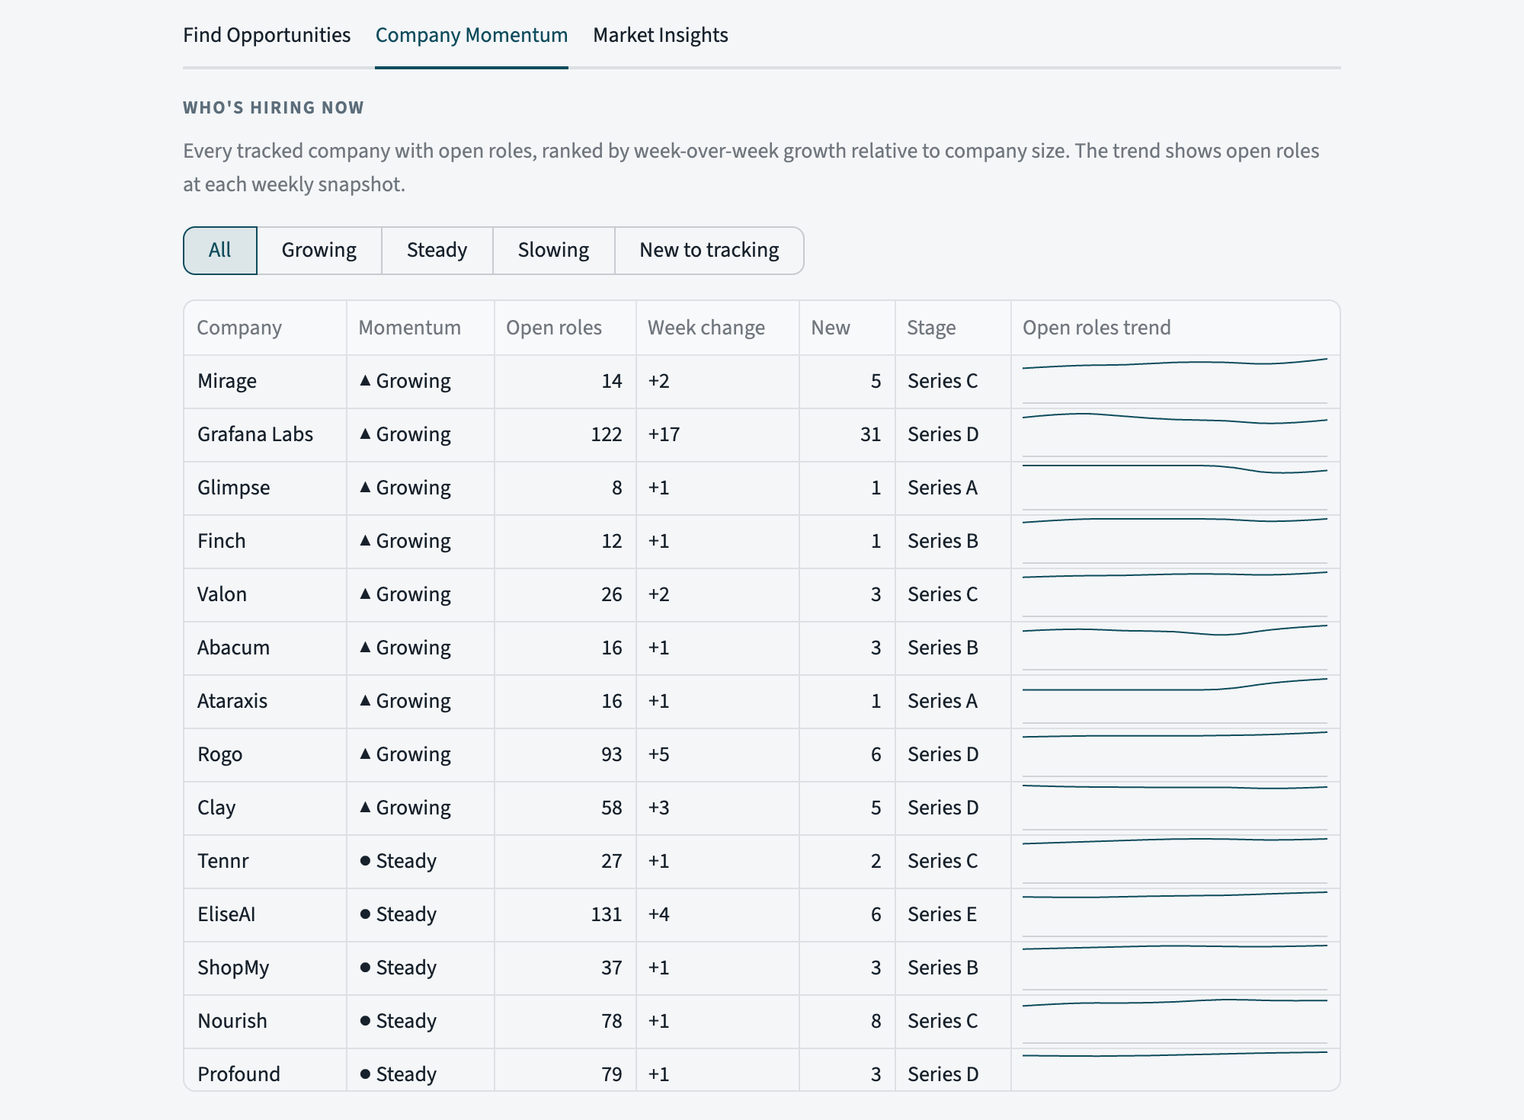
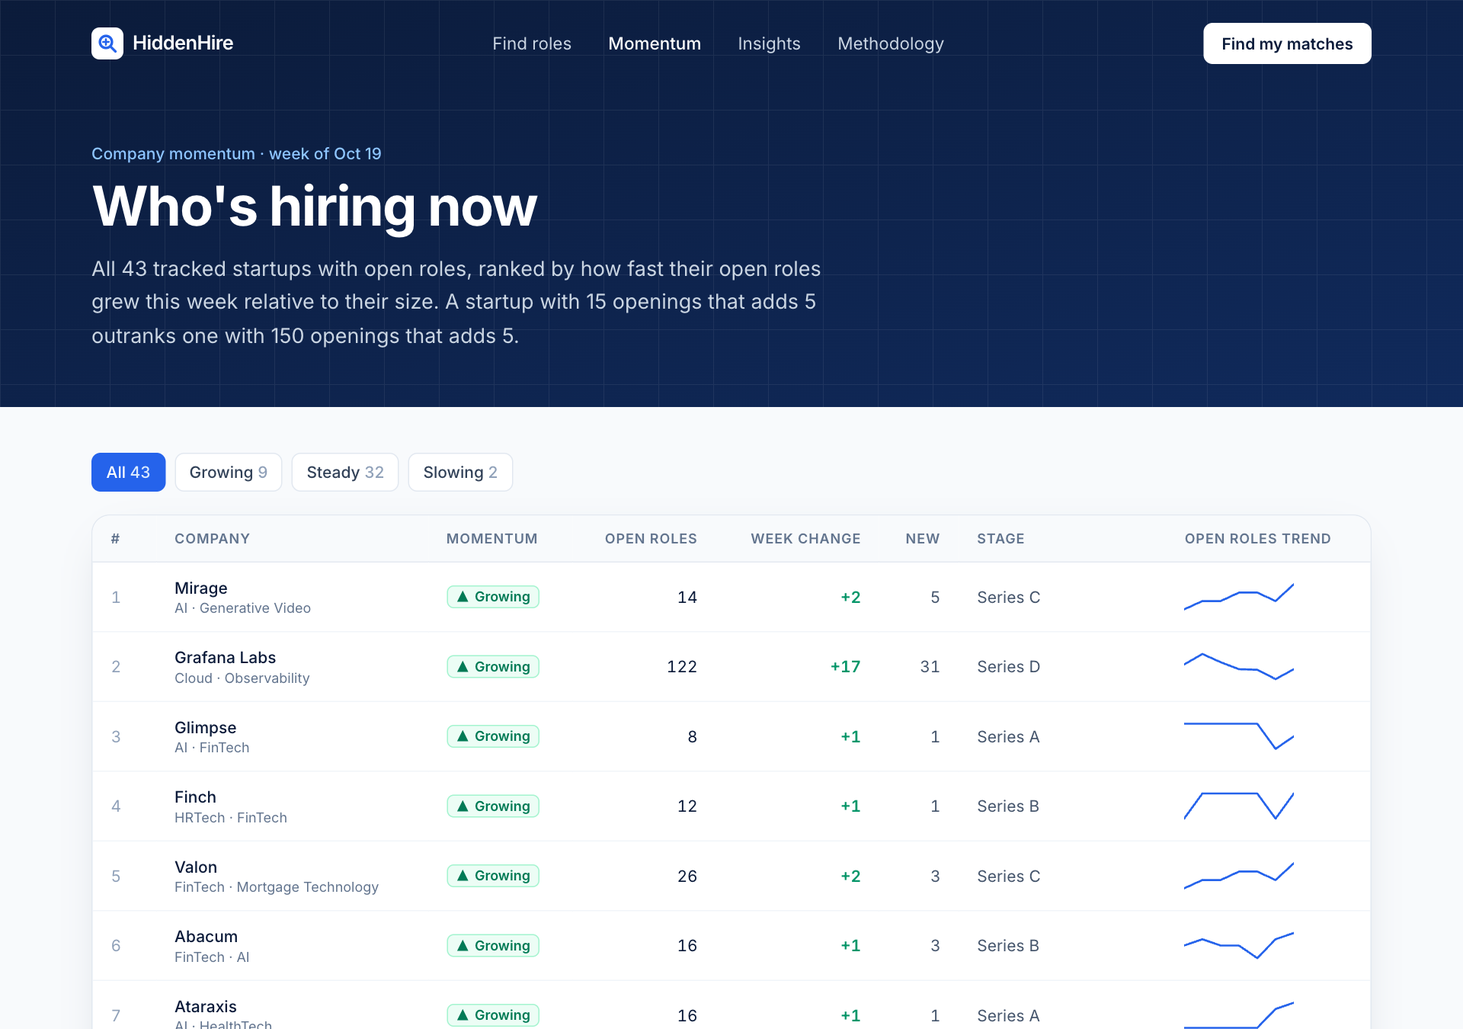
Switch over to hiddenhire-nyc.vercel.app
- README: live link, new screenshots, features, pipeline, tech stack, and
  website tests; Streamlit listed as the backup.
- Streamlit: a banner pointing to the new site (opens in the whole window).
- Every page gets its own link-preview title and description, keeping the
  shared preview image.
- CLAUDE.md: the Vercel site is now the live site.

diff --git a/web/lib/site.ts b/web/lib/site.ts
@@ -1,8 +1,36 @@
+import type { Metadata } from "next";
+
 // The site's public address, used for link previews, the sitemap, and
-// robots.txt. Vercel sets VERCEL_PROJECT_PRODUCTION_URL automatically (it
-// becomes the custom domain once one is added). SITE_URL overrides it.
+// robots.txt. Set a SITE_URL environment variable to change it (for
+// example after adding a custom domain); on your Mac it's localhost.
+export const PRODUCTION_URL = "https://hiddenhire-nyc.vercel.app";
+
 export const SITE_URL = process.env.SITE_URL
   ? process.env.SITE_URL.replace(/\/$/, "")
-  : process.env.VERCEL_PROJECT_PRODUCTION_URL
-    ? `https://${process.env.VERCEL_PROJECT_PRODUCTION_URL}`
+  : process.env.VERCEL
+    ? PRODUCTION_URL
     : "http://localhost:3000";
+
+export const SITE_NAME = "HiddenHire";
+
+// The shared preview picture (app/opengraph-image.tsx).
+const PREVIEW_IMAGE = {
+  url: "/opengraph-image",
+  width: 1200,
+  height: 630,
+  alt: "HiddenHire: find the New York startups hiring for you, before everyone else",
+};
+
+// Title, description, and matching link-preview text for one page.
+// Next.js merges metadata shallowly, so a page that sets `openGraph`
+// replaces the layout's entirely, including the image; this keeps the
+// shared fields (and the picture) on every page.
+export function pageMetadata(title: string, description: string): Metadata {
+  const full = `${title} · ${SITE_NAME}`;
+  return {
+    title,
+    description,
+    openGraph: { title: full, description, type: "website", siteName: SITE_NAME, images: [PREVIEW_IMAGE] },
+    twitter: { card: "summary_large_image", title: full, description, images: [PREVIEW_IMAGE.url] },
+  };
+}

diff --git a/web/app/companies/[id]/page.tsx b/web/app/companies/[id]/page.tsx
@@ -9,6 +9,7 @@ import { MOMENTUM_STYLES, MomentumBadge } from "@/components/MomentumBadge";
 import { PageHeader } from "@/components/PageHeader";
 import { getCompanyDetail, getLatestMomentum, getSnapshotDates, type CompanyDetail } from "@/lib/data";
 import { fmt, shortDate, shortIndustry, signed } from "@/lib/format";
+import { pageMetadata } from "@/lib/site";
 
 // One page per company, e.g. /companies/C024. Every company in the latest
 // snapshot is prebuilt; a company added later is built on its first visit.
@@ -22,10 +23,10 @@ export async function generateMetadata({ params }: PageProps<"/companies/[id]">)
   const { id } = await params;
   const company = await getCompanyDetail(id);
   if (!company) return { title: "Company not found" };
-  return {
-    title: `${company.company_name} hiring momentum`,
-    description: `${company.company_name} has ${fmt(company.open_now)} open roles, tracked weekly by HiddenHire.`,
-  };
+  return pageMetadata(
+    `${company.company_name} hiring momentum`,
+    `${company.company_name} has ${fmt(company.open_now)} open roles (${company.momentum.toLowerCase()} this week), tracked weekly by HiddenHire.`,
+  );
 }
 
 export default async function CompanyPage({ params }: PageProps<"/companies/[id]">) {

diff --git a/web/app/insights/page.tsx b/web/app/insights/page.tsx
@@ -8,13 +8,13 @@ import { AreaChart } from "@/components/charts";
 import { PageHeader } from "@/components/PageHeader";
 import { getLatestBriefing, type Briefing, type Mover } from "@/lib/data";
 import { fmt, shortDate, shortIndustry, signed } from "@/lib/format";
+import { pageMetadata } from "@/lib/site";
 
-export const metadata: Metadata = {
-  title: "Market insights",
-  description:
-    "This week's hiring briefing across tracked New York startups: open, new and closed roles, " +
+export const metadata: Metadata = pageMetadata(
+  "Market insights",
+  "This week's hiring briefing across tracked New York startups: open, new and closed roles, " +
     "the fastest-growing and slowing companies, and roles by function and industry.",
-};
+);
 
 // Market Insights: the week's numbers that are the same for every visitor,
 // all precalculated by market_insights.py and saved by supabase_sync.py.

diff --git a/web/app/companies/page.tsx b/web/app/companies/page.tsx
@@ -4,12 +4,12 @@ import { CompanyBoard } from "@/components/CompanyBoard";
 import { PageHeader } from "@/components/PageHeader";
 import { getLatestHeadline, getLatestMomentum } from "@/lib/data";
 import { shortDate } from "@/lib/format";
+import { pageMetadata } from "@/lib/site";
 
-export const metadata: Metadata = {
-  title: "Company momentum",
-  description:
-    "Every tracked New York startup with open roles, ranked by week-over-week hiring growth relative to company size.",
-};
+export const metadata: Metadata = pageMetadata(
+  "Company momentum",
+  "Every tracked New York startup with open roles, ranked by week-over-week hiring growth relative to company size.",
+);
 
 export default async function CompaniesPage() {
   const [headline, rows] = await Promise.all([getLatestHeadline(), getLatestMomentum()]);

diff --git a/web/app/search/page.tsx b/web/app/search/page.tsx
@@ -11,12 +11,12 @@ import { shortDate } from "@/lib/format";
 import { joinPhrases } from "@/lib/scoring/explain";
 import type { RankedOpportunity } from "@/lib/scoring/types";
 import { profileFromParams, runSearch, type SearchParams } from "@/lib/search";
+import { pageMetadata } from "@/lib/site";
 
-export const metadata: Metadata = {
-  title: "Find roles",
-  description:
-    "Rank open roles at emerging New York startups by your fit and each company's hiring momentum.",
-};
+export const metadata: Metadata = pageMetadata(
+  "Find roles",
+  "Rank open roles at emerging New York startups by your fit and each company's hiring momentum.",
+);
 
 // The search page. The header is prebuilt; the form and results depend on
 // the address (?role=...&level=...), so they render on each request inside

diff --git a/web/app/methodology/page.tsx b/web/app/methodology/page.tsx
@@ -5,13 +5,13 @@ import { Card } from "@/components/Card";
 import { PageHeader } from "@/components/PageHeader";
 import { getCoverage } from "@/lib/data";
 import { fmt, longDate } from "@/lib/format";
+import { pageMetadata } from "@/lib/site";
 
-export const metadata: Metadata = {
-  title: "Methodology",
-  description:
-    "How HiddenHire collects weekly job snapshots, scores Candidate Fit and Hiring Momentum, " +
+export const metadata: Metadata = pageMetadata(
+  "Methodology",
+  "How HiddenHire collects weekly job snapshots, scores Candidate Fit and Hiring Momentum, " +
     "ranks openings, and what its limits are.",
-};
+);
 
 // Every number on this page must match the Python code (candidate_fit.py,
 // hiring_momentum.py, pipeline.py, market_insights.py), the README's

diff --git a/app.py b/app.py
@@ -372,6 +372,26 @@ st.markdown(
             font-size: 0.95rem !important;
             margin: 0.2rem 0;
         }
+        .moved-banner {
+            display: block;
+            background: #0b1b3a;
+            border-radius: 12px;
+            color: #ffffff !important;
+            font-size: 0.95rem !important;
+            line-height: 1.5;
+            margin-bottom: 1.2rem;
+            padding: 0.8rem 1rem;
+            text-decoration: none !important;
+        }
+        .moved-banner span {
+            color: #93c5fd;
+        }
+        .moved-banner:hover span {
+            text-decoration: underline;
+        }
+        .moved-banner .nowrap {
+            white-space: nowrap;
+        }
         .footer {
             border-top: 1px solid #e3e8ee;
             color: #667886;
@@ -1020,6 +1040,8 @@ def render_company_momentum(data):
 
 REPO_URL = "https://github.com/mwhan99/HiddenHire"
 LINKEDIN_URL = "https://www.linkedin.com/in/meng-wen-han"
+# The new Next.js site. This Streamlit app stays up as a backup for old links.
+NEW_SITE_URL = "https://hiddenhire-nyc.vercel.app"
 
 PIPELINE_STEPS = [
     ("Collect", "Every Monday, GitHub Actions pulls each company's public job "
@@ -1157,6 +1179,16 @@ def render_footer():
         unsafe_allow_html=True,
     )
 
+
+# target="_top": on Streamlit Cloud the app runs inside a frame, and the
+# link should open the new site in the whole window, not inside the frame.
+st.markdown(
+    f'<a class="moved-banner" href="{NEW_SITE_URL}" target="_top">'
+    "<b>HiddenHire has a faster new home.</b> "
+    "<span>Same data, updated weekly, with no wait to load. Visit "
+    '<span class="nowrap">hiddenhire-nyc.vercel.app →</span></span></a>',
+    unsafe_allow_html=True,
+)
 
 st.markdown("# HiddenHire")
 st.markdown(

diff --git a/README.md b/README.md
@@ -2,9 +2,9 @@
 
 Discover emerging job opportunities through candidate fit and company hiring momentum.
 
-**[Try HiddenHire Live →](https://hiddenhire.streamlit.app/)**
+**[Try HiddenHire Live →](https://hiddenhire-nyc.vercel.app/)**
 
-![HiddenHire search results with the weekly stats bar](hiddenhire-results.png)
+![HiddenHire home page: this week's hiring briefing with a market ticker and live cards](hiddenhire-home.png)
 
 ## Overview
 
@@ -30,24 +30,23 @@ Candidate Profile → Job Data Collection → Candidate Fit → Hiring Momentum 
 
 ## Core Features
 
-- Stats bar on every page: companies tracked, open roles and the change from last week, new postings this week, and the company with the biggest jump in open roles
-- Candidate-to-job matching against the latest job snapshot
-- Candidate Fit scoring
-- Company Hiring Momentum from prior snapshots
-- Hidden Opportunity ranking, with one result card per company and its other matching roles listed underneath
+- **This week's briefing (home):** a scrolling ticker of each company's change in open roles, plus live cards for open roles over time, the fastest-growing companies, new and closed postings, and roles by job function
+- **Find roles:** candidate-to-job matching against the latest snapshot, ranked by Hidden Opportunity, with one result card per company and its other matching roles underneath. Every search has its own shareable link.
 - Fit and momentum shown as badges (`Fit 80`, `▲ Hiring fast`, `● Steady hiring`, `▼ Quieter hiring`)
-- “Why this opportunity?” explanations based on the calculated signals
-- Direct links to original job postings
-- Company Momentum tab: every tracked company ranked by weekly growth, with a trend line of open roles across all snapshots, plus a company view with roles by function and the week's new postings
-- Historical job snapshots stored by date
-- Automated weekly job-data collection
-- Market Insights tab: open, new, and closed roles this week, the fastest-growing and slowing companies, open roles by job function and industry, and open roles over time
+- “Why this opportunity?” explanations based on the calculated signals, and direct links to the original postings
+- **Company Momentum:** every tracked company ranked by size-adjusted weekly growth, with a Growing / Steady / Slowing filter, trend lines, and a page per company with its open-roles history, roles by function, and the week's new postings
+- **Market Insights:** open, new, and closed roles this week, automatically written key findings, the fastest-growing and slowing companies, and open roles by job function and industry
+- **Methodology:** how every score is calculated, the data quality fixes, and the limitations
+- Pages are prebuilt and refreshed hourly, so the site loads in well under a second and never has to wake up
+- Historical job snapshots stored by date, collected automatically every week
 
 ## Data Pipeline
 
 Public job posts are collected from company boards on Ashby, Greenhouse, and Lever. Each run stores that day’s openings in `HiddenHire_Data.xlsx` and keeps earlier snapshot dates.
 
 A GitHub Actions workflow runs the collectors in sequence, recalculates hiring momentum, and commits the updated workbook. It is scheduled for Monday morning New York time and can also be started manually. The company master list is not updated by the workflow.
+
+The workflow's last step, `supabase_sync.py`, copies the workbook into a Supabase (Postgres) database. It labels each job (role families, seniority, job function) and precalculates Company Momentum and Market Insights for every snapshot date using the same Python code. The website reads from Supabase with a read-only key, and a daily job keeps the free Supabase project awake.
 
 ## Company Coverage
 
@@ -74,8 +73,7 @@ Each fix has tests in `tests/`.
 - **Rule-based matching:** skills and roles are matched by keyword. Synonyms ("BI" vs. "business intelligence"), plurals, and roles outside the built-in role families are missed.
 - **Seniority from titles:** experience level is inferred from job titles only. Requirements stated in the description, such as "3+ years", are not read.
 - **Simple location matching:** locations are matched as text, and every remote posting gets partial credit regardless of region.
-- **Storage:** snapshots live in one Excel workbook that is rewritten each week. It works at this scale but will slow down as history grows.
-- **Hosting:** the free Streamlit tier puts the app to sleep after inactivity, so the first visit can take about 30 seconds to load.
+- **Storage:** the collectors still write one Excel workbook that is rewritten each week, then copy it to Supabase. It works at this scale; writing straight to Supabase is the next step as history grows.
 
 ## Scoring
 
@@ -97,21 +95,20 @@ Each signal is measured relative to the company's size (its open jobs a week ear
 
 **Hidden Opportunity** ranks each job as 60% Candidate Fit and 40% Hiring Momentum.
 
-**Company Momentum** ranks companies by their net change in open roles relative to size, using the same size adjustment and comparison window as Hiring Momentum. It does not depend on a candidate's profile. A company is labeled Growing when that size-adjusted change is at least +5%, Slowing at −5% or lower, and Steady in between. A company with no roles in the comparison snapshot is labeled New to tracking. The "Biggest jump" figure in the stats bar is the largest raw increase in open roles, so it can name a different company than the top of the size-adjusted ranking.
+**Company Momentum** ranks companies by their net change in open roles relative to size, using the same size adjustment and comparison window as Hiring Momentum. It does not depend on a candidate's profile. A company is labeled Growing when that size-adjusted change is at least +5%, Slowing at −5% or lower, and Steady in between. A company with no roles in the comparison snapshot is labeled New to tracking.
 
 **Market Insights** uses the same weekly snapshots and comparison window as Hiring Momentum. Job functions are assigned from titles by keyword (`market_insights.py`), so a small share of postings land in "Other". Industry counts use each company's industry tags, and a company with several tags counts toward each one.
 
 The explanation under each result uses only signals those scores already support, such as role match, skills, industry, location, and whether hiring momentum is elevated, steady, or quieter.
 
+The scoring is written in Python. The website runs the per-search part (Candidate Fit, Hiring Momentum, and the ranking) in TypeScript, so it can score a search instantly. A test suite checks that the TypeScript reproduces Python's results exactly, down to Python's rounding rules, for a set of fixed searches.
+
 ## Tech Stack
 
-- Python 3.11+
-- Pandas
-- Streamlit
-- Excel workbooks via OpenPyXL
-- Requests for public job-board APIs
-- GitHub Actions for the weekly update
-- pytest for the scoring tests
+- **Data and scoring:** Python 3.11+, pandas, Requests (public job-board APIs), OpenPyXL, pytest
+- **Pipeline:** GitHub Actions (weekly collection, Supabase sync, daily keep-awake), Supabase (Postgres with row-level security)
+- **Website:** Next.js 16 (App Router), React 19, TypeScript, Tailwind CSS 4, Vitest, hosted on Vercel
+- **Previous version:** Streamlit, still running at [hiddenhire.streamlit.app](https://hiddenhire.streamlit.app/) as a backup
 
 ## Running the Tests
 
@@ -120,17 +117,29 @@ pip install -r requirements-dev.txt
 pytest
 ```
 
+The website (in `web/`) has its own tests, including the checks against Python's results:
+
+```bash
+cd web
+npm install
+npm test
+```
+
 ## MVP Status
 
 HiddenHire is an independently developed MVP and portfolio project. It is actively being developed.
 
 ## Live Demo
 
-[Try HiddenHire Live](https://hiddenhire.streamlit.app/)
+[Try HiddenHire Live](https://hiddenhire-nyc.vercel.app/)
+
+## Find Roles
+
+![Search results: one card per company with Fit and momentum badges, the Opportunity score, and why it fits](hiddenhire-results.png)
 
 ## Company Momentum
 
-![Company Momentum leaderboard with weekly trend lines](hiddenhire-company-momentum.png)
+![Company Momentum leaderboard with a momentum filter and weekly trend lines](hiddenhire-company-momentum.png)
 
 ## Future Development
 
@@ -142,4 +151,5 @@ HiddenHire is an independently developed MVP and portfolio project. It is active
 ## Author
 
 **Meng Han**  
-M.S. Management and Analytics (Business Analytics), New York University
+M.S. Management and Analytics (Business Analytics), New York University  
+[LinkedIn](https://www.linkedin.com/in/meng-wen-han)

diff --git a/CLAUDE.md b/CLAUDE.md
@@ -9,11 +9,14 @@ startups every week, then ranks openings for a job seeker by
 **Candidate Fit** (how well a role matches them) and **Hiring Momentum**
 (how fast the company is adding roles).
 
-- Live site today: https://hiddenhire.streamlit.app/ (Streamlit, Python)
+- Live site: https://hiddenhire-nyc.vercel.app (Next.js on Vercel, data in
+  Supabase). This is the link on Meng's résumé and README.
+- Backup: https://hiddenhire.streamlit.app/ (the original Streamlit app). It
+  shows a "faster new home" banner and stays up for old links.
 - Repo: https://github.com/mwhan99/HiddenHire
-- Goal in progress: move the **website** to Next.js (App Router,
-  TypeScript, Tailwind) on Vercel, with data in Supabase. The **Python
-  scraper stays in Python.** See [Migration plan](#4-migration-plan).
+- The website moved to Next.js (App Router, TypeScript, Tailwind) on Vercel
+  in migration steps 1–11. The **Python scraper stays in Python.** See
+  [Migration plan](#4-migration-plan).
 
 Why the move, in Meng's words:
 1. **It should look polished**, at the level of Meng's other project,
@@ -32,17 +35,15 @@ Numbers below were checked against the data on Oct 22, 2026.
 
 ## Working rules
 
-- **The Streamlit site must stay up until the switch-over (step 11).**
-  Meng is job hunting and the link is on applications. Until step 11:
-  - Don't change `app.py`, `pipeline.py`, the scoring files,
-    `requirements.txt` or the workbook's layout. Streamlit Cloud rebuilds
-    the site from `main` on every push, and those are the files it runs.
-  - New work goes in new files and folders (`web/`, `supabase/`,
-    `supabase_sync.py`, `scripts/`), which Streamlit ignores.
-  - Anything the Supabase sync needs goes in its own requirements file,
-    not `requirements.txt`.
+- **Both sites must keep working.** Meng is job hunting; the Vercel link
+  is on new applications and the Streamlit link is on older ones.
   - Work on a branch and merge with a pull request. After each merge,
-    open https://hiddenhire.streamlit.app/ and check it still loads.
+    check https://hiddenhire-nyc.vercel.app and
+    https://hiddenhire.streamlit.app/ both load.
+  - Streamlit Cloud rebuilds from `main` on every push and runs `app.py`,
+    `pipeline.py`, the scoring files and `requirements.txt`. Keep changes
+    there small, and keep `requirements.txt` limited to what Streamlit
+    needs (the Supabase sync uses only packages already in it).
 - Run the tests before and after any Python change:
   `pip install -r requirements-dev.txt` then `pytest` (52 tests today).
 - **The search scoring exists twice**, in Python and in TypeScript
@@ -67,18 +68,18 @@ Numbers below were checked against the data on Oct 22, 2026.
 
 ## 1. What each file does
 
-### The website (Streamlit, to be replaced)
+### The original website (Streamlit, now the backup)
 
 | File | What it does |
 |---|---|
-| `app.py` | The whole website. It shows a page title, a stats bar, four tabs (Find Opportunities, Company Momentum, Market Insights, Methodology), and a footer. It reads the workbook on page load and caches the results until the file changes. It holds the CSS, the "Why this opportunity?" sentence builder (`explain_opportunity`), the badge rules, and the Methodology text. |
+| `app.py` | The original Streamlit website, now the backup. A "faster new home" banner at the top links to the new site (`NEW_SITE_URL`). It shows a page title, a stats bar, four tabs (Find Opportunities, Company Momentum, Market Insights, Methodology), and a footer. It reads the workbook on page load and caches the results until the file changes. It holds the CSS, the "Why this opportunity?" sentence builder (`explain_opportunity`), the badge rules, and the Methodology text. |
 | `.streamlit/config.toml` | Forces the light theme and sets the brand colours (`#0e4c5c` teal, `#f4f6f8` background, `#17212b` text). |
 
-### The new website (Next.js, in progress)
+### The website (Next.js)
 
 | File | What it does |
 |---|---|
-| `web/` | The Next.js app (Next.js 16.4, React 19, Tailwind 4, TypeScript), live at https://hidden-hire.vercel.app. Vercel redeploys on every push to `main`. Run it locally with `npm run dev` inside `web/`, then open http://localhost:3000. Check it with `npm run lint` and `npm run build`. Don't run `npm run build` while `npm run dev` is running: they share `.next/` and the dev server breaks until restarted. |
+| `web/` | The Next.js app (Next.js 16.4, React 19, Tailwind 4, TypeScript), live at https://hiddenhire-nyc.vercel.app (the Vercel project is named `hidden-hire`). Vercel redeploys on every push to `main`. Run it locally with `npm run dev` inside `web/`, then open http://localhost:3000. Check it with `npm run lint` and `npm run build`. Don't run `npm run build` while `npm run dev` is running: they share `.next/` and the dev server breaks until restarted. |
 | Design | Chosen in step 7: the **"Data briefing"** layout. A navy header (`bg-navy`) with a scrolling ticker of this week's changes, a left-aligned headline, then white cards of live data. Cobalt blue `brand` (#2563eb), green `up` for gains, Inter font. Colours are defined in `web/app/globals.css`. It deliberately avoids Parrot's look: no centred hero, floating pill nav, pastel blobs, gradient headline text or floating bubbles. |
 | `web/app/page.tsx` | The home page: navy header, ticker, headline, the open-roles chart, growing-fastest companies, this week's new/closed roles, roles by function, and "How HiddenHire works". |
 | `web/app/companies/` | Company Momentum. `page.tsx` is the leaderboard of every company in the latest snapshot, with a Growing / Steady / Slowing / New filter (`components/CompanyBoard.tsx`, the site's first browser-side "client" component). `[id]/page.tsx` is one page per company (e.g. `/companies/C016`), all prebuilt with `generateStaticParams`. It shows open roles, the week's change, a trend chart with peak and low, roles by function, and the week's new postings (first 10, then a toggle). "Size" always means open roles a week earlier (at least 10), never headcount. |
@@ -524,7 +525,8 @@ Each step ends with a check. Don't start the next step until it passes.
     in Vercel. Otherwise the free address is `<name>.vercel.app`.
     *Check:* test on a real phone. Open the link in a private window
     after a few days with no visitors: it should load in about a second.
-11. **Switch over.** Point the README and résumé links at the Vercel URL
+11. **Switch over** (done in the repo: README, screenshots, Streamlit
+    banner; the résumé and LinkedIn are Meng's). Point the README and résumé links at the Vercel URL
     and refresh the screenshots. Keep the Streamlit app running as a
     backup for as long as old applications might still be read; it costs
     nothing. When it is finally retired, replace it with a short page
